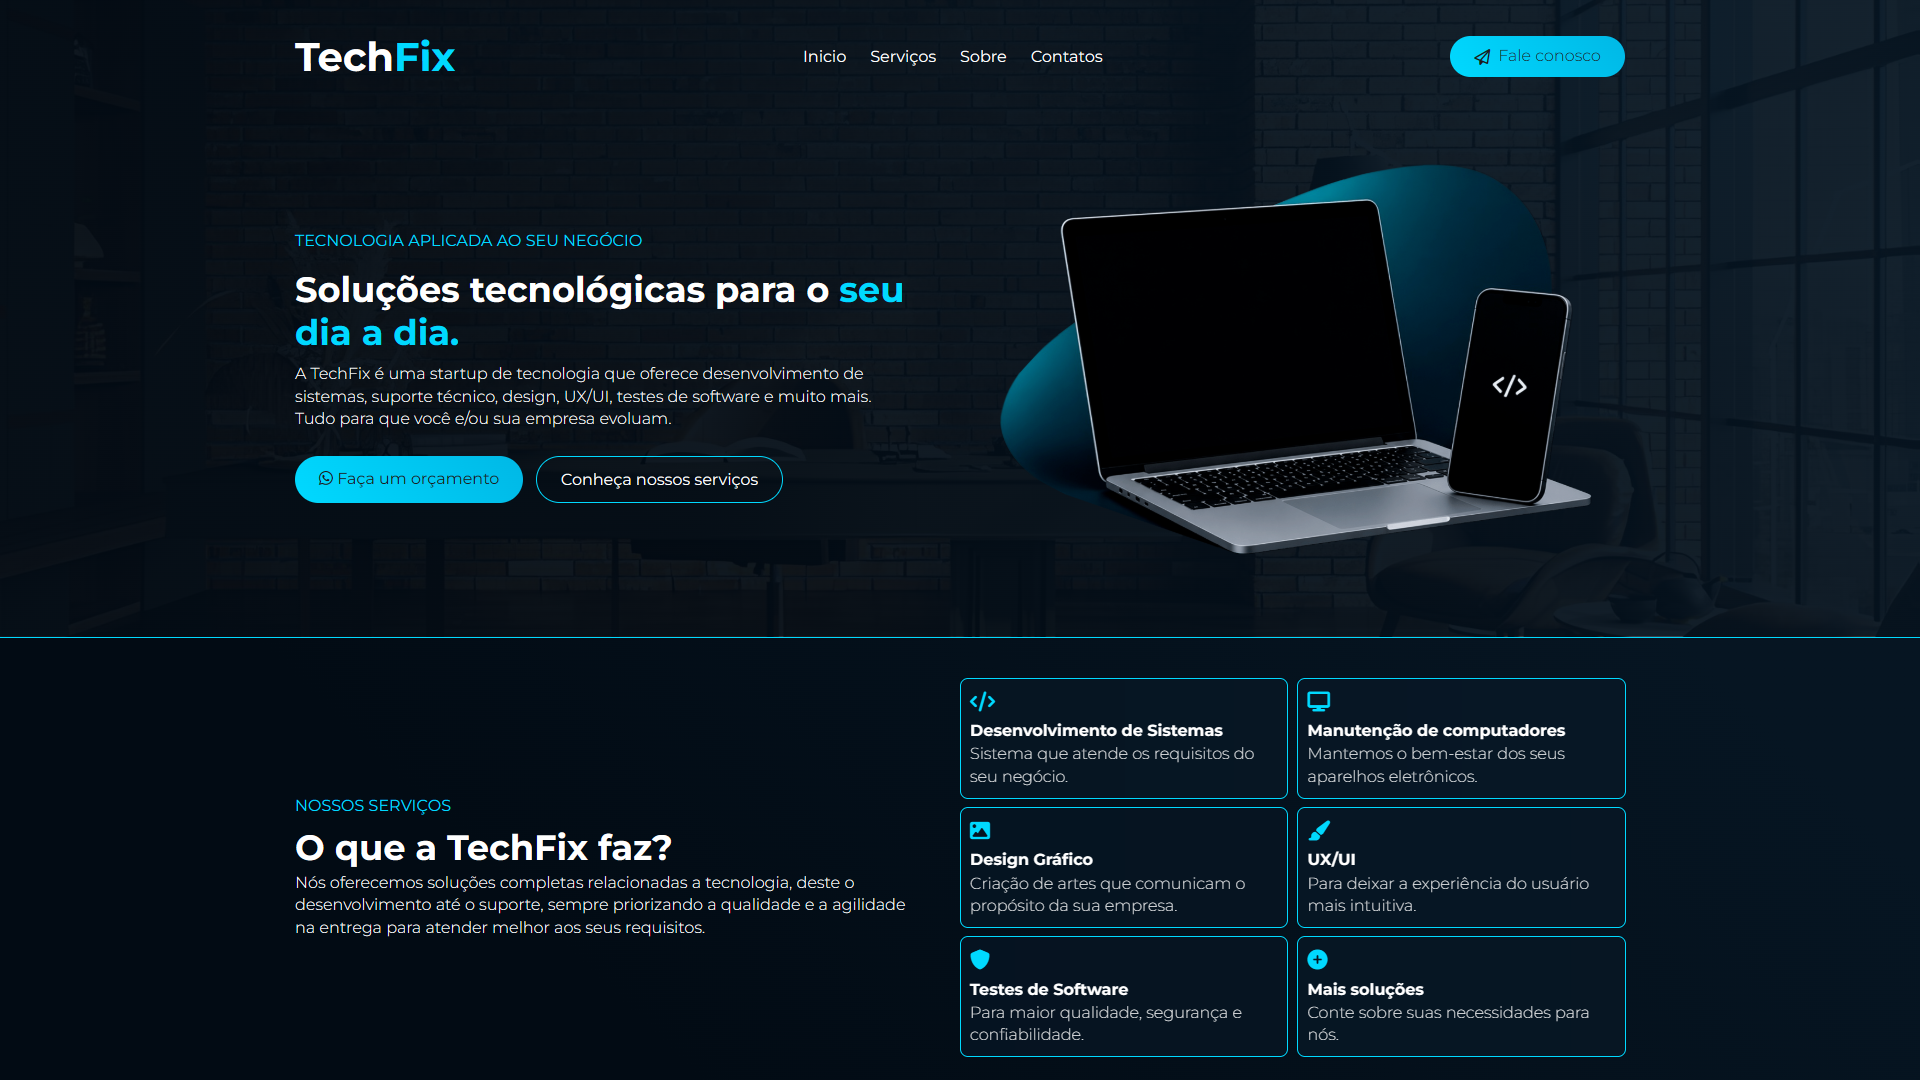
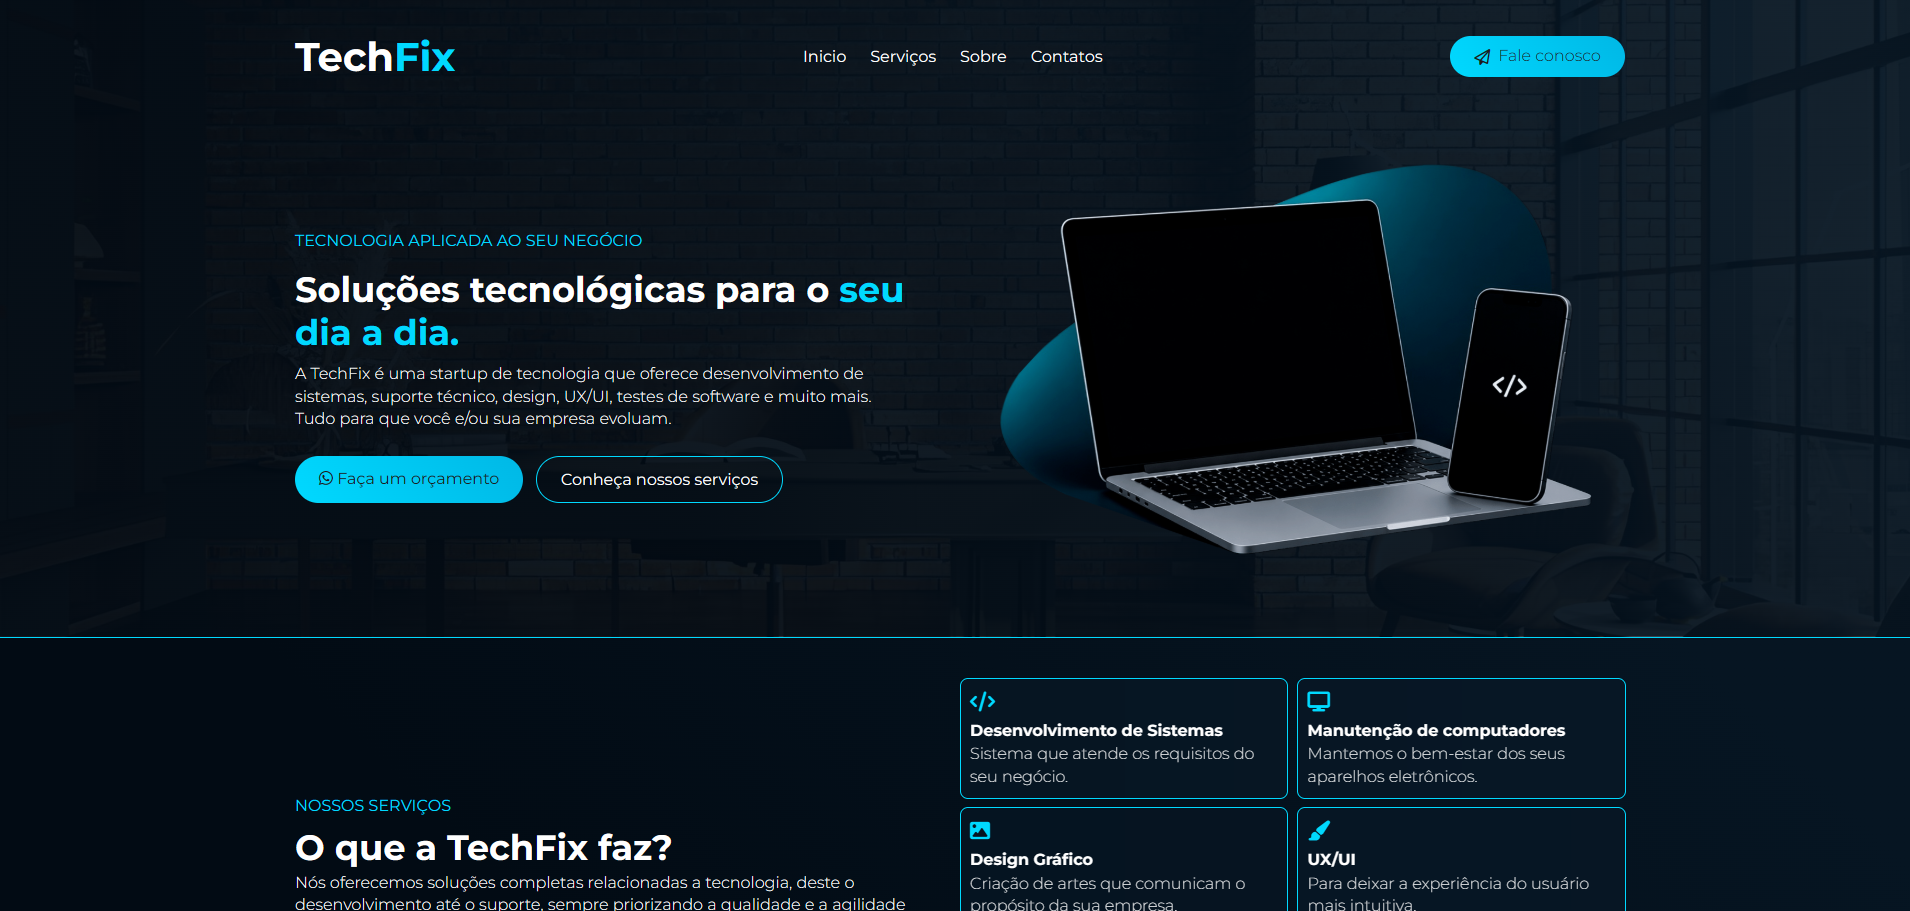
Implementei uma funcionalidade que fecha o card de projeto ao clicar no background

diff --git a/src/components/card-projeto/card-projeto.css b/src/components/card-projeto/card-projeto.css
@@ -9,7 +9,7 @@ div.background{
   justify-content: center;
   align-items: flex-start;
   overflow-y: auto;
-  padding: 2rem 0 2rem 0;
+  padding: 2rem 0;
   box-sizing: border-box;
   z-index: 1;
 }
@@ -25,7 +25,7 @@ div.background::-webkit-scrollbar {
 div.card {
   background-color: #fff;
   width: 90%;
-  max-width: 820px;
+  max-width: 920px;
   border-radius: 0.4rem;
   padding: 1rem;
   display: grid;
@@ -54,7 +54,7 @@ div.card h1 {
 
 div.card img {
   width: 100%;
-  aspect-ratio: 16/9;
+  object-fit: cover;
   border: 1px solid #696969;
 }
 

diff --git a/src/components/card-projeto/CardProjeto.tsx b/src/components/card-projeto/CardProjeto.tsx
@@ -8,9 +8,9 @@ interface CardProjetoProps {
 
 export default function CardProjeto({ projeto, fecharCard }: CardProjetoProps) {
   return (
-    <div className="background">
+    <div onClick={fecharCard} className="background">
       
-      <div className="card">
+      <div onClick={(e)=>e.stopPropagation()} className="card">
         <div className="infos">
           <h1><i className={projeto.icon}></i> {projeto.name}</h1>
           <a target="_blank" href={projeto.href}>
